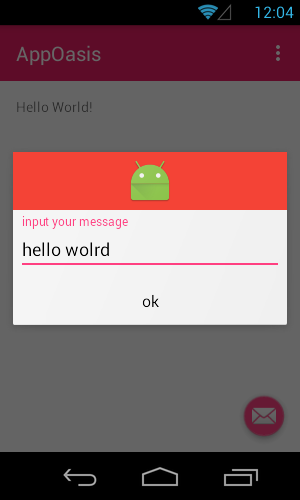
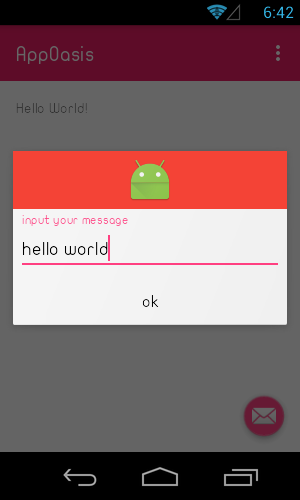
same style font for all widgets

diff --git a/app/src/main/java/com/touggourti/appoasis/MainActivity.java b/app/src/main/java/com/touggourti/appoasis/MainActivity.java
@@ -10,18 +10,19 @@ import android.view.MenuItem;
 import android.view.View;
 import android.widget.Toast;
 
+import com.touggourti.oasis.oaActivity;
 import com.touggourti.oasis.oaDialog;
 
-public class MainActivity extends AppCompatActivity {
+public class MainActivity extends oaActivity {
 
     @Override
     protected void onCreate(Bundle savedInstanceState) {
         super.onCreate(savedInstanceState);
         setContentView(R.layout.activity_main);
-        Toolbar toolbar = (Toolbar) findViewById(R.id.toolbar);
+        Toolbar toolbar = find(R.id.toolbar);
         setSupportActionBar(toolbar);
 
-        FloatingActionButton fab = (FloatingActionButton) findViewById(R.id.fab);
+        FloatingActionButton fab = find(R.id.fab);
         fab.setOnClickListener(new View.OnClickListener() {
             @Override
             public void onClick(View view) {

diff --git a/oasis.core/src/main/java/com/touggourti/oasis/oaActivity.java b/oasis.core/src/main/java/com/touggourti/oasis/oaActivity.java
@@ -1,14 +1,21 @@
 package com.touggourti.oasis;
 
+import android.content.Context;
 import android.support.v7.app.AppCompatActivity;
+
+import uk.co.chrisjenx.calligraphy.CalligraphyContextWrapper;
 
 /**
  * Created by seddik on 15/12/2016.
  */
 
 public abstract class oaActivity extends AppCompatActivity {
-    public <T> T find(int id)
-    {
+    public <T> T find(int id) {
         return (T) findViewById(id);
+    }
+
+    @Override
+    protected void attachBaseContext(Context context) {
+        super.attachBaseContext(CalligraphyContextWrapper.wrap(context));
     }
 }

diff --git a/oasis.core/src/main/java/com/touggourti/oasis/oaApp.java b/oasis.core/src/main/java/com/touggourti/oasis/oaApp.java
@@ -2,10 +2,21 @@ package com.touggourti.oasis;
 
 import android.app.Application;
 
+import uk.co.chrisjenx.calligraphy.CalligraphyConfig;
+
 /**
  * Created by seddik on 17/12/2016.
  */
 
 public class oaApp extends Application {
+    @Override
+    public void onCreate() {
+        super.onCreate();
+        CalligraphyConfig.initDefault(new CalligraphyConfig.Builder()
+                .setDefaultFontPath("fonts/nat.ttf")
+                .setFontAttrId(R.attr.fontPath)
+                .build()
+        );
+    }
 }
 
